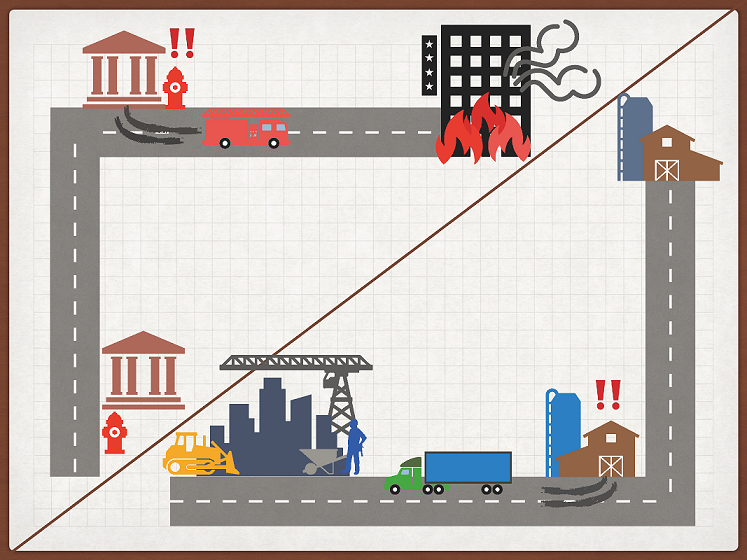
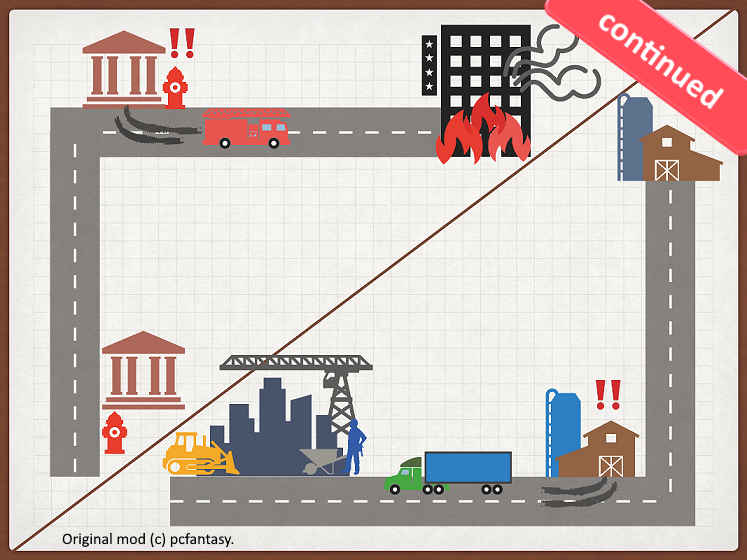
workshop preview image and assembly info

Changed region(s): [[0.7082, 0.0, 1.0, 0.3036], [0.0924, 0.9411, 0.3079, 0.9714]]

diff --git a/Properties/AssemblyInfo.cs b/Properties/AssemblyInfo.cs
@@ -10,7 +10,7 @@ using System.Runtime.InteropServices;
 [assembly: AssemblyConfiguration("")]
 [assembly: AssemblyCompany("")]
 [assembly: AssemblyProduct("MoreEffectiveTransfer")]
-[assembly: AssemblyCopyright("Copyright ©  2019")]
+[assembly: AssemblyCopyright("Original Copyright ©  2019 pcfantasy. Licensed under MIT.")]
 [assembly: AssemblyTrademark("")]
 [assembly: AssemblyCulture("")]
 
@@ -19,18 +19,9 @@ using System.Runtime.InteropServices;
 //请将此类型的 ComVisible 特性设置为 true。
 [assembly: ComVisible(false)]
 
-// 如果此项目向 COM 公开，则下列 GUID 用于类型库的 ID
-[assembly: Guid("c7a1e749-47ed-449c-9579-e94ed850b079")]
+// Original GUID replaced with new GUID
+[assembly: Guid("D51F2CEB-E3F9-498E-9199-C7208AE4F755")]
 
-// 程序集的版本信息由下列四个值组成: 
-//
-//      主版本
-//      次版本
-//      生成号
-//      修订号
-//
-//可以指定所有这些值，也可以使用“生成号”和“修订号”的默认值，
-// 方法是按如下所示使用“*”: :
-// [assembly: AssemblyVersion("1.0.*")]
-[assembly: AssemblyVersion("3.1.06.20")]
-[assembly: AssemblyFileVersion("3.1.06.20")]
+// Original assembly version replaced
+[assembly: AssemblyVersion("1.0.0.0")]
+[assembly: AssemblyFileVersion("1.0.0.0")]
